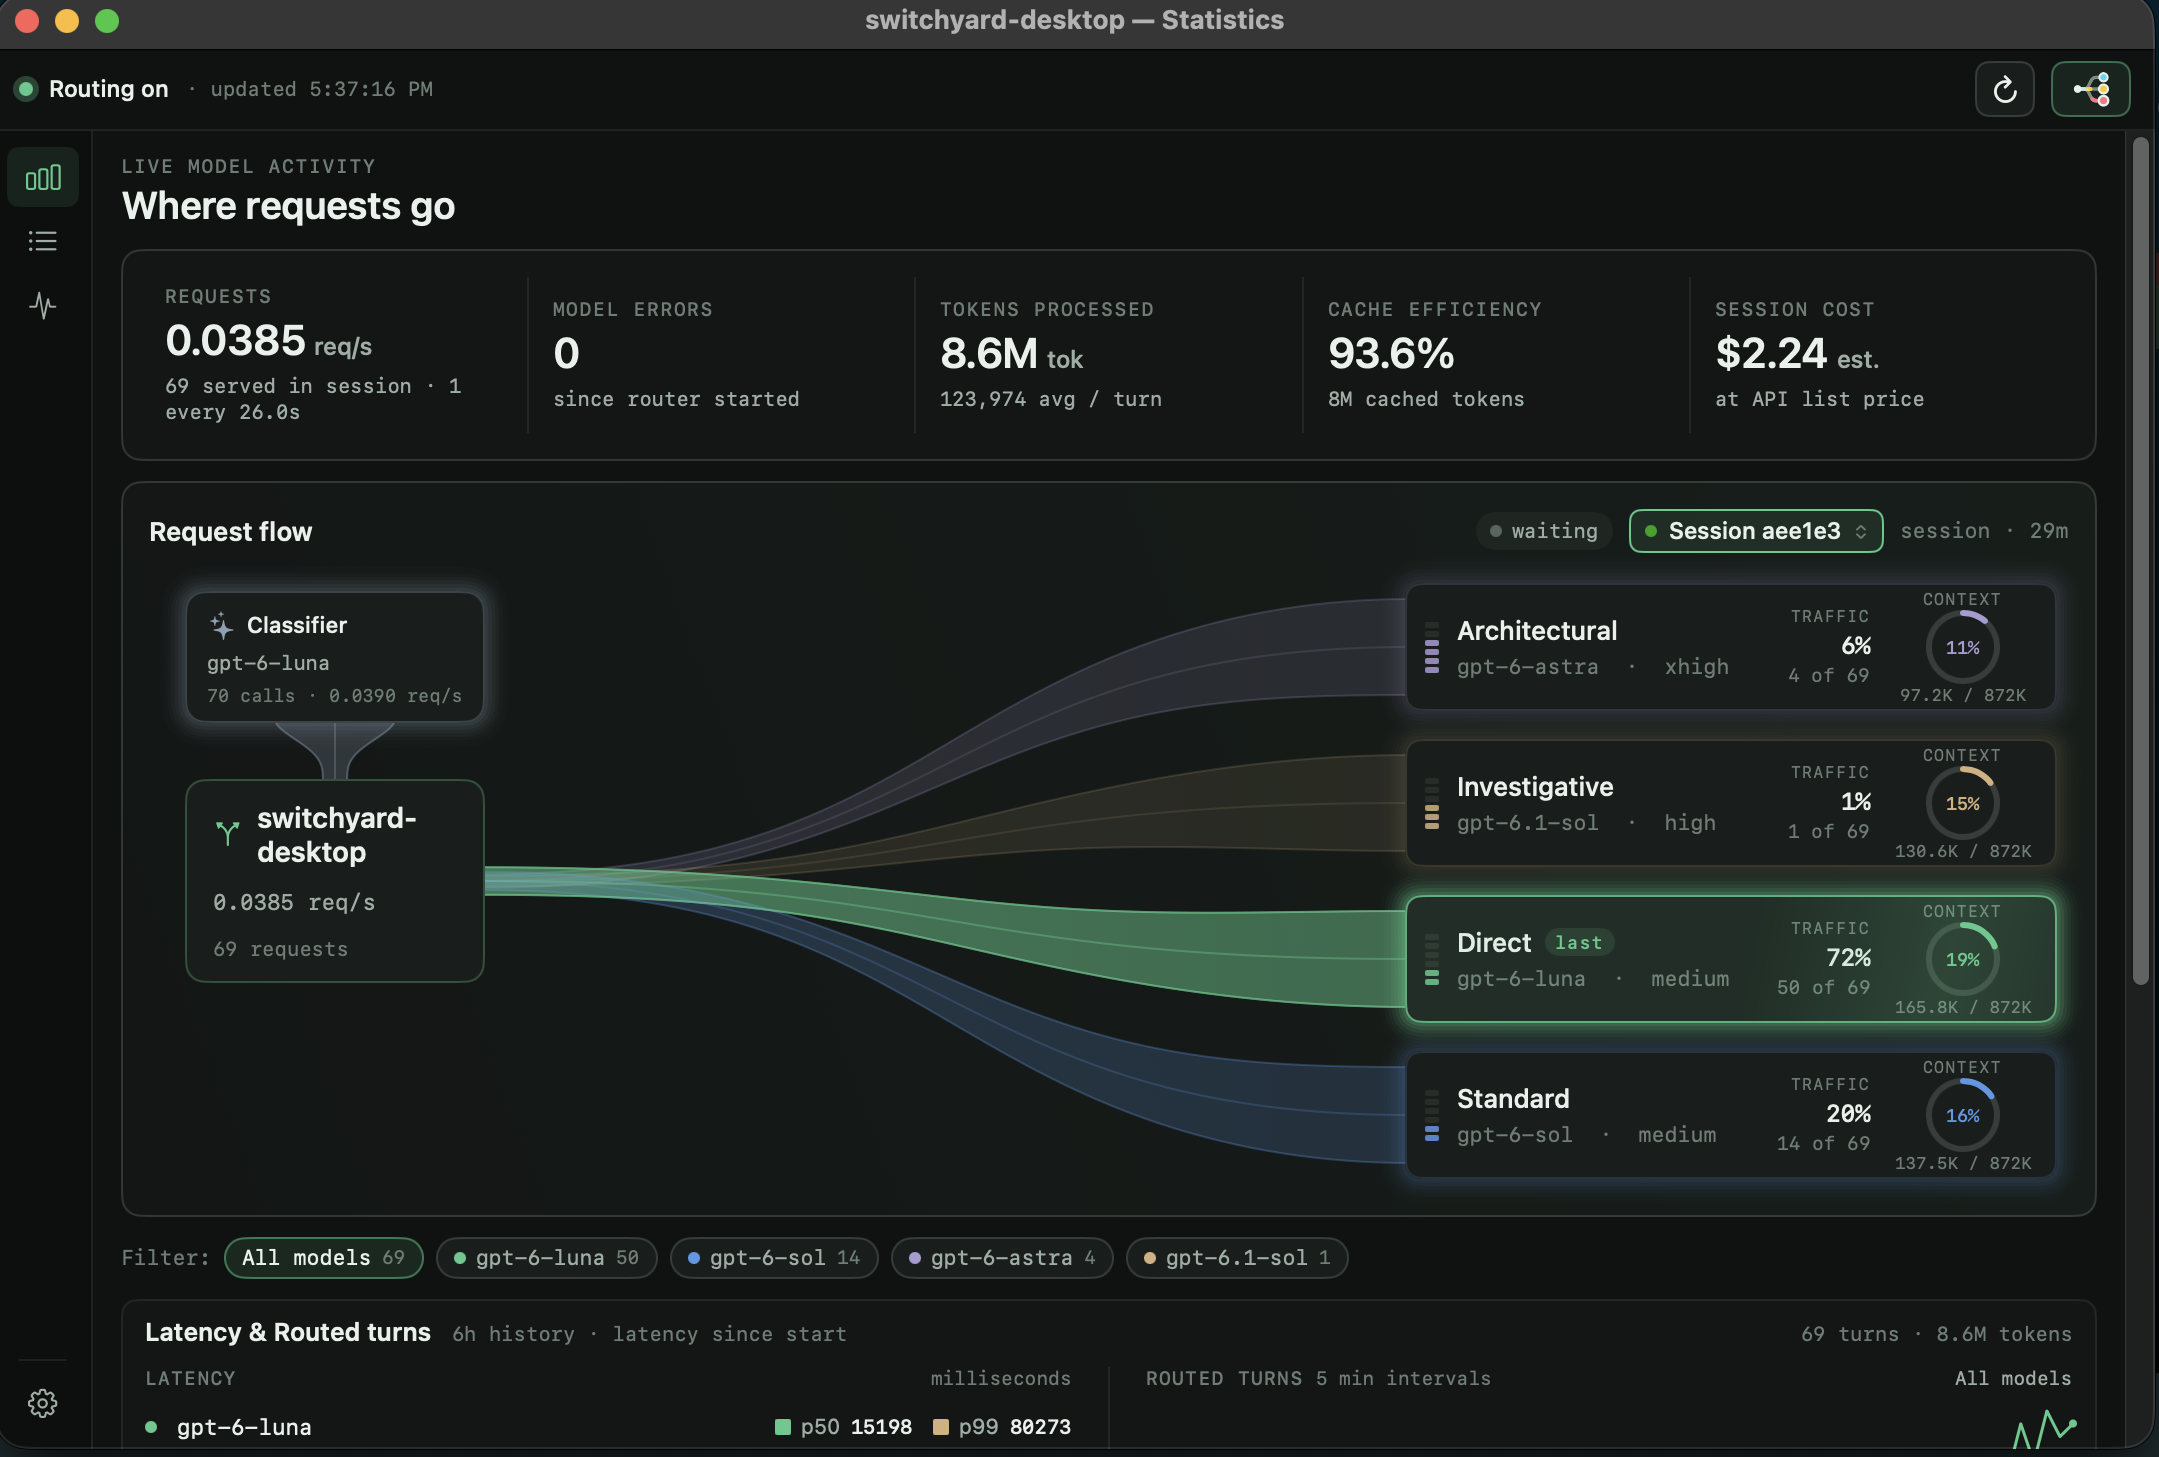
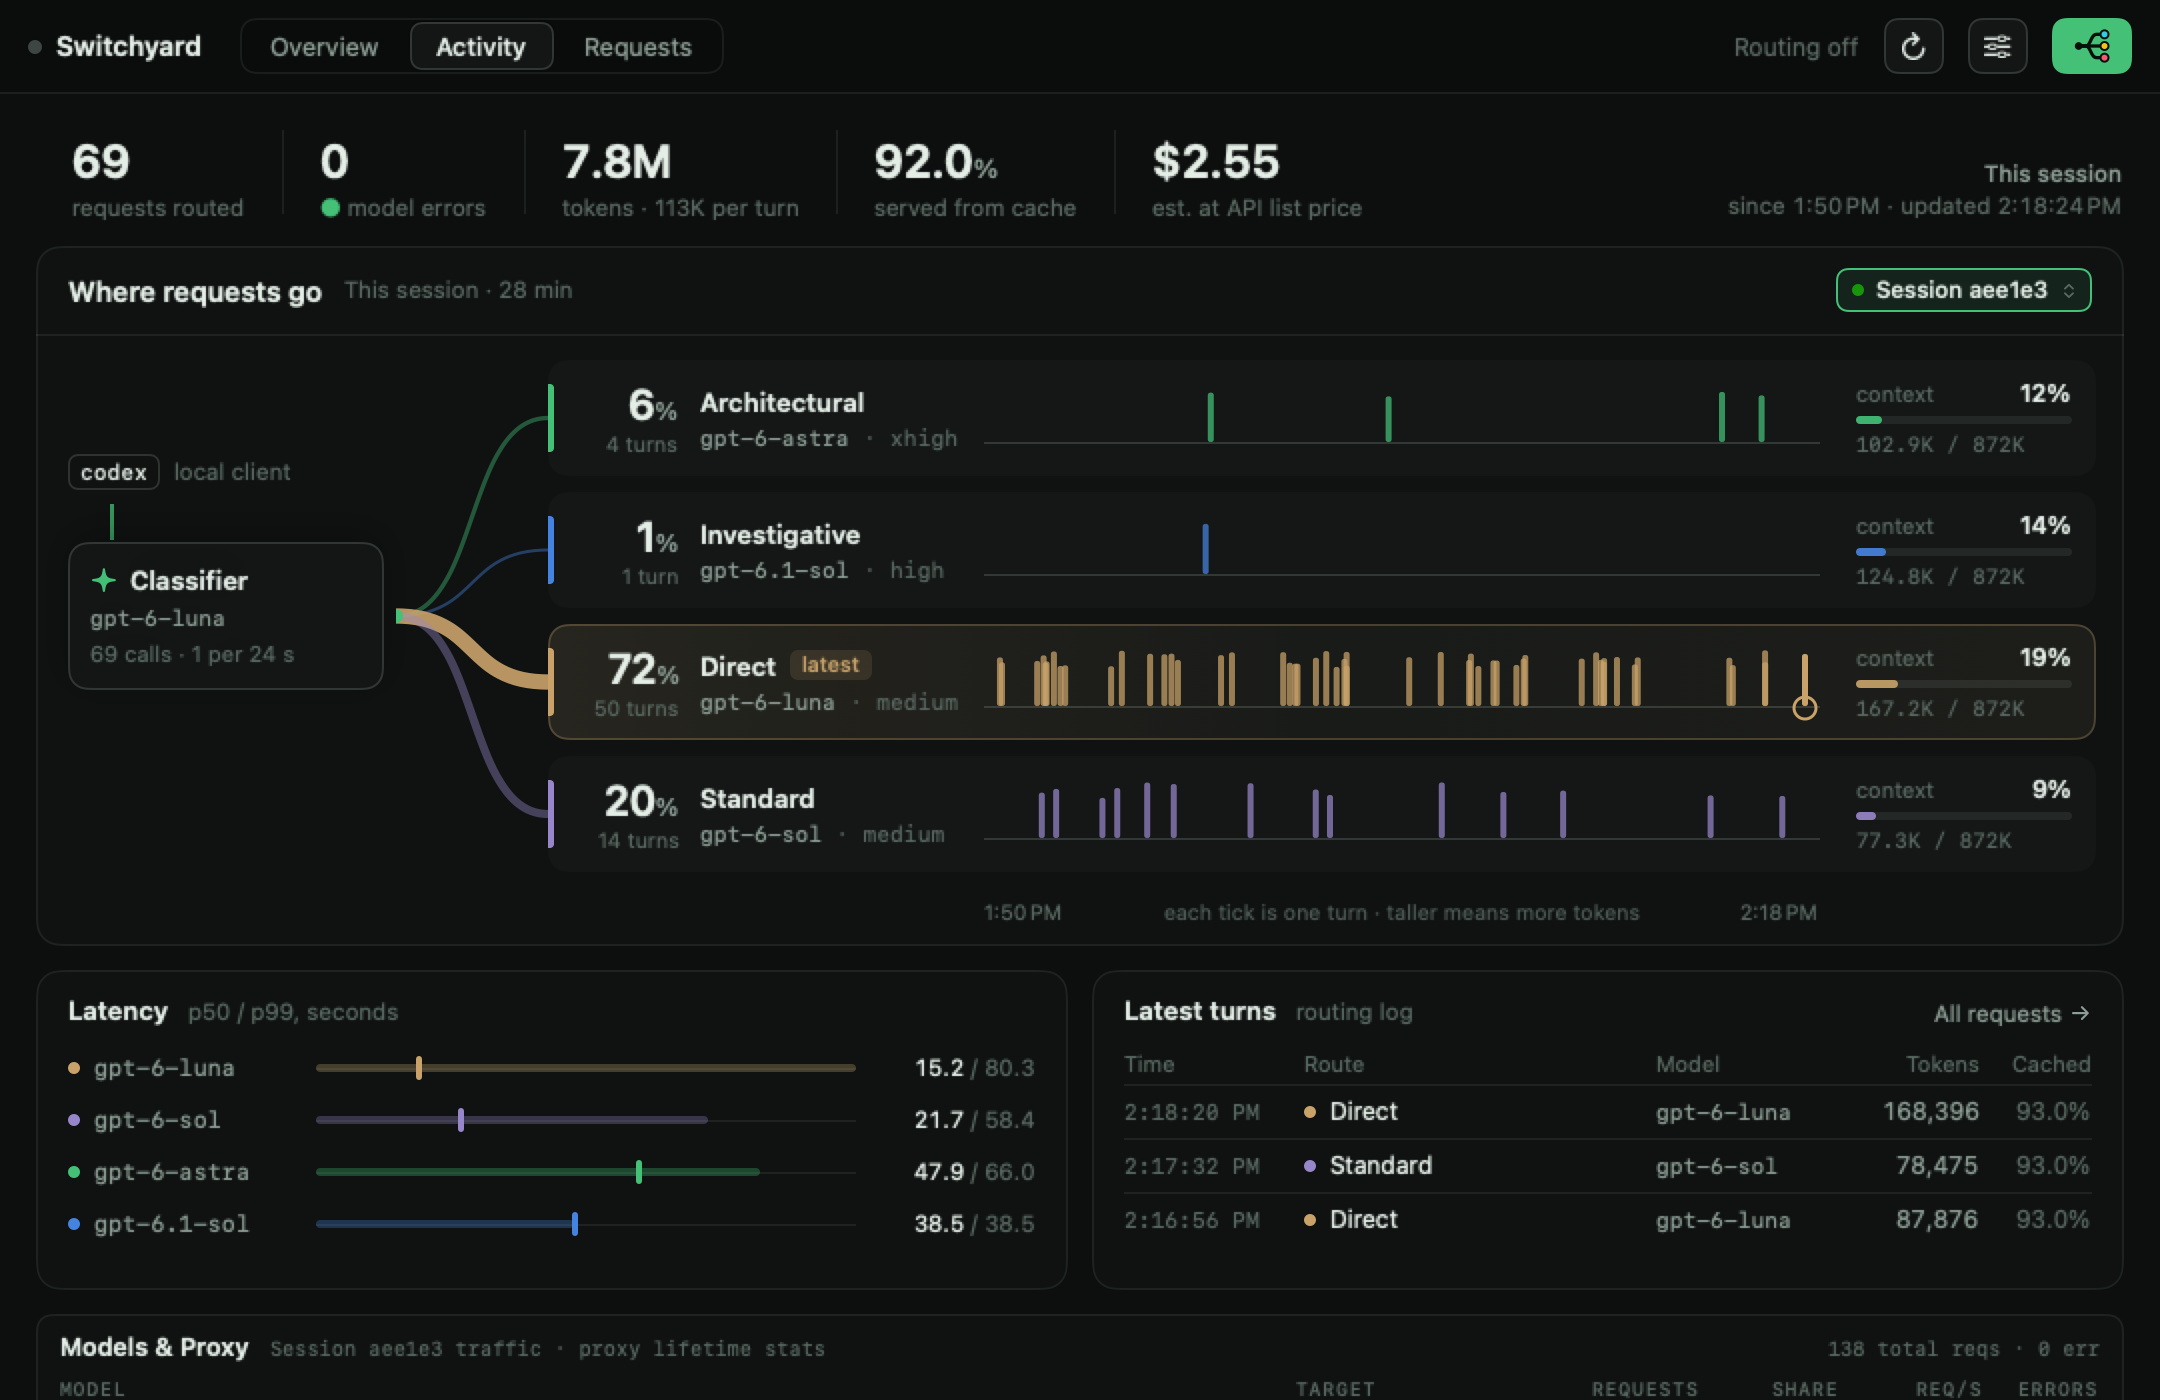
chore(release): prepare v0.1.0-preview.3
Bump the build to 3, point the README download at preview.3 and replace
the screenshot with the redesigned Activity pane.

diff --git a/README.md b/README.md
@@ -11,18 +11,18 @@ This is an independent community project using a
 [NVIDIA Switchyard](https://github.com/NVIDIA-NeMo/Switchyard). It is not affiliated
 with or endorsed by NVIDIA or OpenAI.
 
-![Statistics screen](images/ui.png)
+![Activity screen](images/ui.png)
 
 ## Download
 
-[Download the DMG for Apple Silicon (arm64)](https://github.com/eugenn/switchyard-desktop/releases/download/v0.1.0-preview.2/switchyard-desktop-0.1.0-2-arm64-local.dmg)
-[![DMG downloads](https://img.shields.io/github/downloads/eugenn/switchyard-desktop/v0.1.0-preview.2/switchyard-desktop-0.1.0-2-arm64-local.dmg?label=DMG%20downloads&displayAssetName=false&color=blue)](https://github.com/eugenn/switchyard-desktop/releases/tag/v0.1.0-preview.2)
+[Download the DMG for Apple Silicon (arm64)](https://github.com/eugenn/switchyard-desktop/releases/download/v0.1.0-preview.3/switchyard-desktop-0.1.0-3-arm64-local.dmg)
+[![DMG downloads](https://img.shields.io/github/downloads/eugenn/switchyard-desktop/v0.1.0-preview.3/switchyard-desktop-0.1.0-3-arm64-local.dmg?label=DMG%20downloads&displayAssetName=false&color=blue)](https://github.com/eugenn/switchyard-desktop/releases/tag/v0.1.0-preview.3)
 — macOS 14 or later.
 
-This is the **v0.1.0-preview.2 test prerelease**, ad-hoc signed without an Apple
+This is the **v0.1.0-preview.3 test prerelease**, ad-hoc signed without an Apple
 Developer ID signature or Apple notarization. An Intel DMG is not available for
-this preview. See the [release notes and known limitations](https://github.com/eugenn/switchyard-desktop/releases/tag/v0.1.0-preview.2)
-and the [SHA-256 checksum](https://github.com/eugenn/switchyard-desktop/releases/download/v0.1.0-preview.2/switchyard-desktop-0.1.0-2-arm64-local.dmg.sha256).
+this preview. See the [release notes and known limitations](https://github.com/eugenn/switchyard-desktop/releases/tag/v0.1.0-preview.3)
+and the [SHA-256 checksum](https://github.com/eugenn/switchyard-desktop/releases/download/v0.1.0-preview.3/switchyard-desktop-0.1.0-3-arm64-local.dmg.sha256).
 
 ## Providers and clients
 
